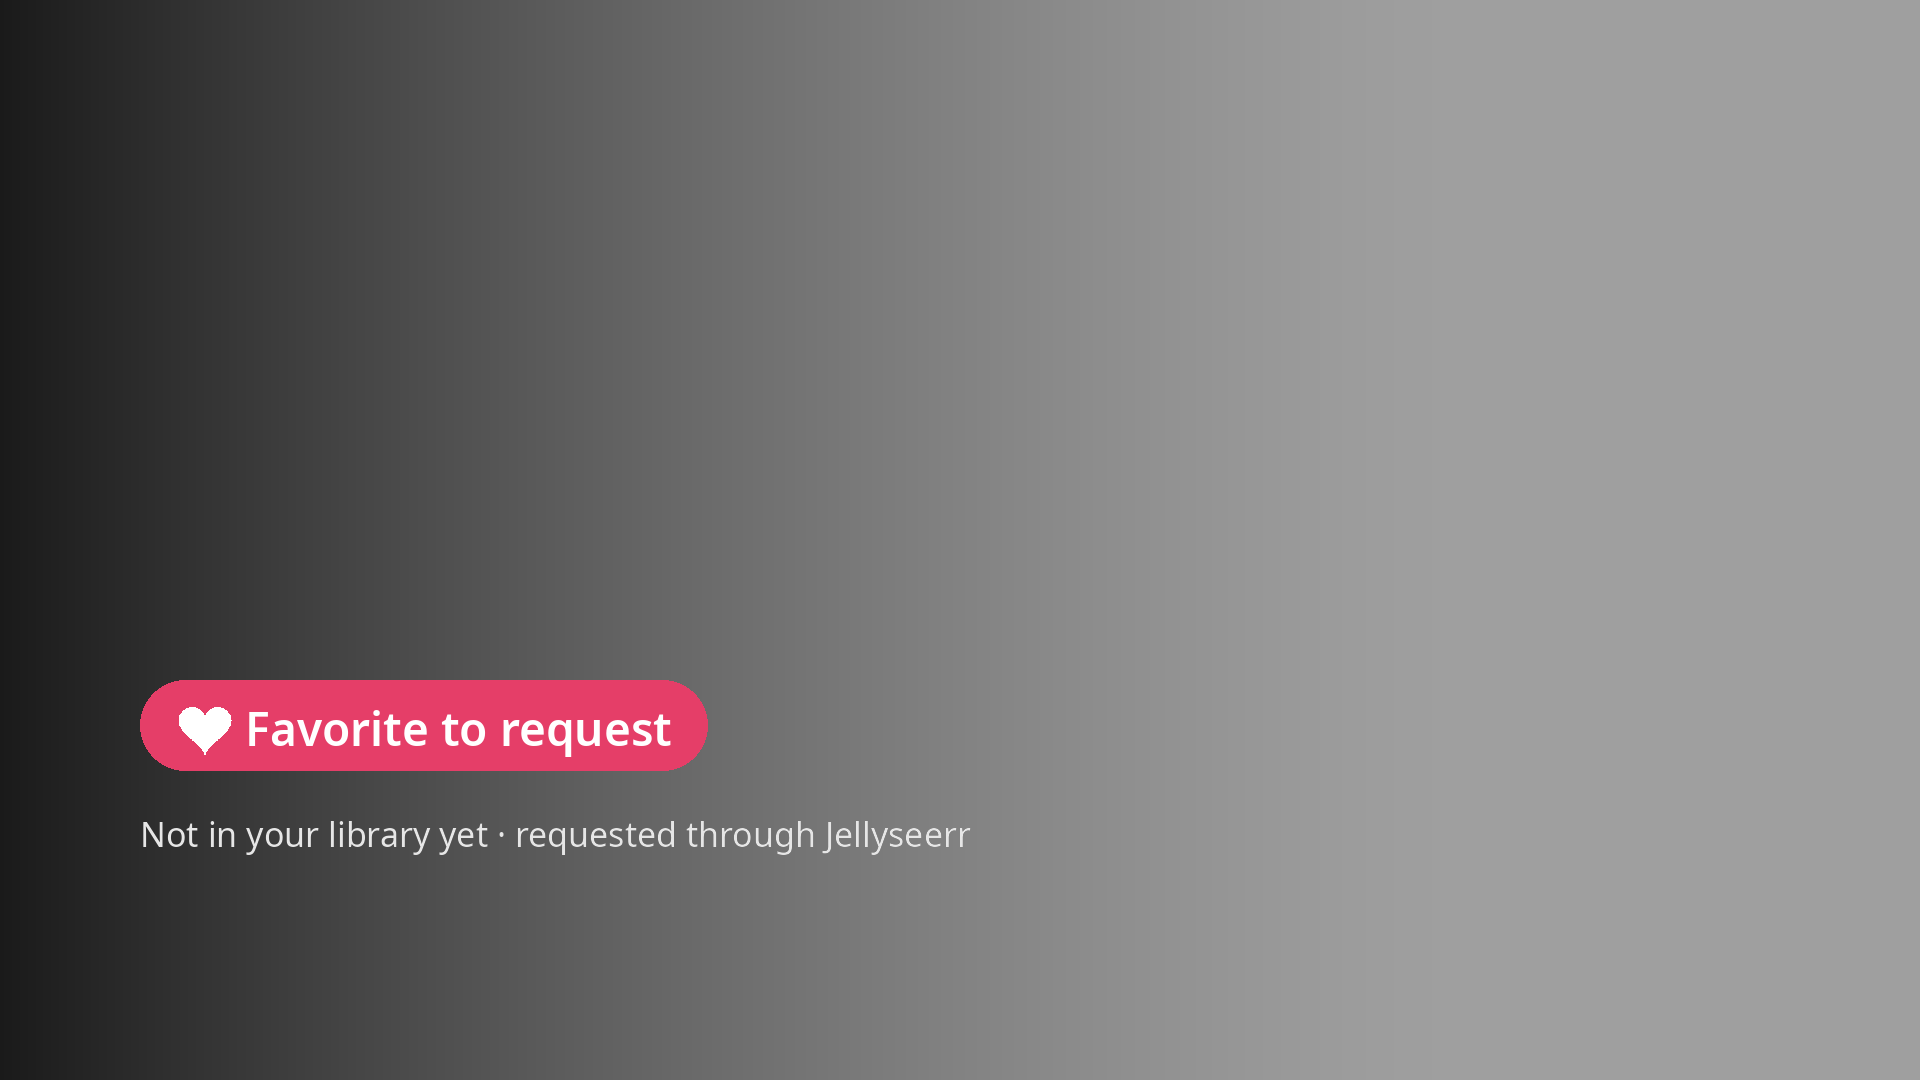
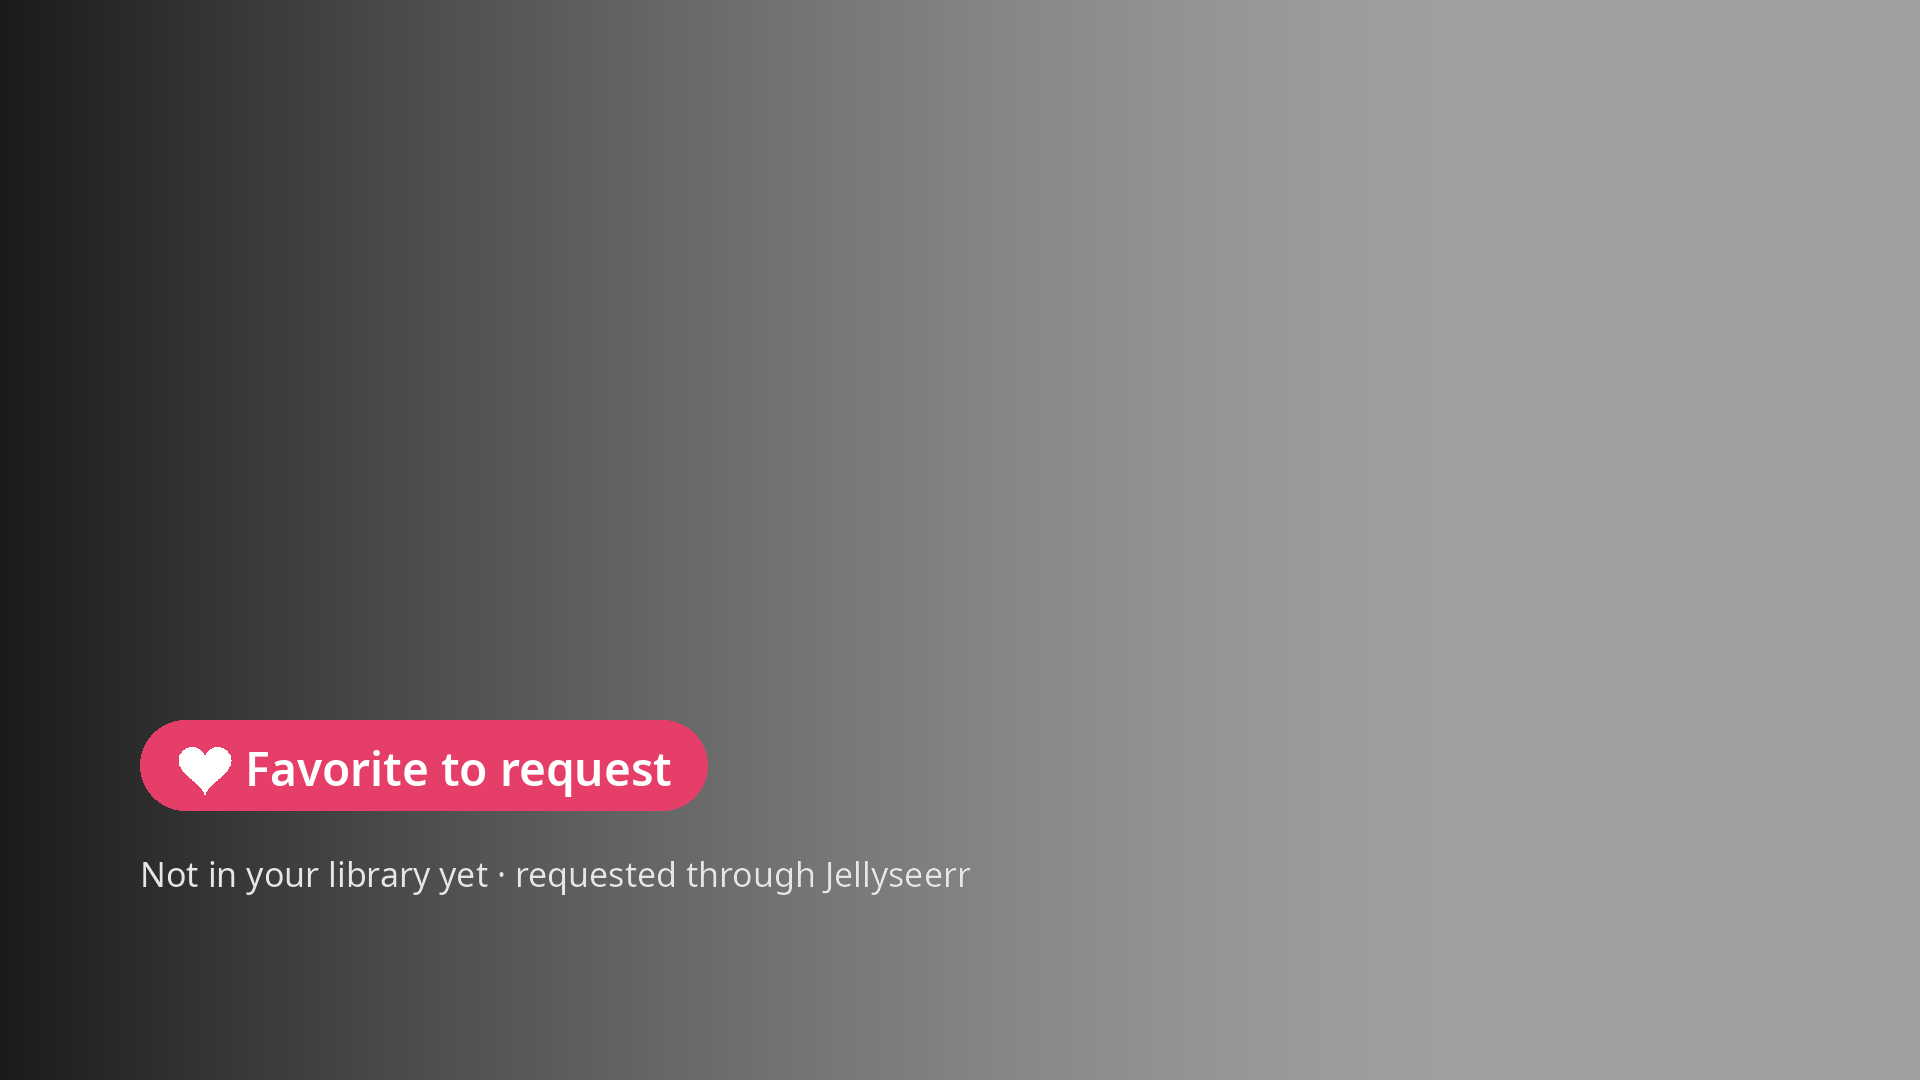
feat: title promos show the whole plot for most titles
The plot was cut to 3 lines of 34 px, which showed about a third of plots in full.
It is now 30 px, up to 6 lines in a 1200 px column, wrapped by the promo font's
character widths instead of a character count. A longer plot ends after its last
whole sentence that fits. Across 407 real overviews: 96% shown in full, the rest
end at a sentence.

The info line stays at 34 px, 30 px above the plot. The "favorite to request" note
in the overlay moves 40 px down, leaving 70 px under the plot. The logo shrinks
when a long plot leaves it less than its usual height. Layout token layout10, so
existing promos are redrawn once.

Changed region(s): [[0.0625, 0.6111, 0.5, 0.825]]

diff --git a/src/Jellyfin.Plugin.JellyBridge/Services/PlaceholderVideoGenerator.cs b/src/Jellyfin.Plugin.JellyBridge/Services/PlaceholderVideoGenerator.cs
@@ -46,23 +46,26 @@ public class PlaceholderVideoGenerator
     private static readonly string TitlePromoFontAsset = "promo-font.ttf";
 
     // Layout of the 1920x1080 frame, top to bottom like a streaming service's title page: logo, info line, plot, then the
-    // overlay's "favorite to request" note, which starts at y 680. The text block is stacked upwards from just above the
-    // note and the logo moves up to make room; with no text the logo keeps its old place (bottom at y 630).
-    // drawtext puts the top of the text at y; a line of the promo font (Noto Sans, like the overlay) takes about 1.3 x the font size plus the line spacing.
+    // overlay's "favorite to request" note, which starts at y 720. The text block is stacked upwards from 70 px above the
+    // note and the logo moves up to make room (shrinking when a long plot leaves it less than its usual height); with no
+    // text the logo keeps its old place (bottom at y 630).
+    // drawtext puts the top of the text at y; line advances and heights below are measured from Jellyfin's ffmpeg.
     private const int PromoTextLeft = 140;
-    private const int PromoTextWidth = 1060;
+    private const int PromoTextWidth = 1200;
     private const int PromoTextBottom = 650;
     private const int PromoLogoBottom = 630;
     private const int PromoLogoGap = 30;
+    private const int PromoLogoMaxHeight = 300;
+    private const int PromoLogoTop = 80;
     private const int PromoInfoFontSize = 34;
     private const int PromoInfoHeight = 33;
-    private const int PromoInfoGap = 22;
+    private const int PromoInfoGap = 30;
     private const int PromoInfoMaxChars = 58;
-    private const int PromoPlotFontSize = 34;
-    private const int PromoPlotMaxLines = 3;
+    private const int PromoPlotFontSize = 30;
+    private const int PromoPlotMaxLines = 6;
     private const int PromoPlotSpacing = 10;
-    private const int PromoPlotLineAdvance = 56;
-    private const int PromoPlotLastLineHeight = 33;
+    private const int PromoPlotLineAdvance = 51;
+    private const int PromoPlotLastLineHeight = 29;
     private const int PromoBadgeY = 88;
     private const int PromoBadgeRight = 140;
     private const int PromoBadgeFontSize = 36;
@@ -1015,7 +1018,7 @@ public class PlaceholderVideoGenerator
         if (logo != null)
         {
             arguments.AddRange(new[] { "-i", logo });
-            filter += $";[2:v]scale=760:300:force_original_aspect_ratio=decrease[logo];[{stage}][logo]overlay=x=140:y={layout.LogoBottom}-overlay_h[jb{nextStage}]";
+            filter += $";[2:v]scale=760:{layout.LogoMaxHeight}:force_original_aspect_ratio=decrease[logo];[{stage}][logo]overlay=x=140:y={layout.LogoBottom}-overlay_h[jb{nextStage}]";
             (stage, nextStage) = ($"jb{nextStage}", nextStage + 1);
         }
         foreach (var textFilter in layout.Filters)
@@ -1083,7 +1086,7 @@ public class PlaceholderVideoGenerator
     /// <summary>
     /// The text filters for one promo and where the logo goes above them.
     /// </summary>
-    private sealed record PromoLayout(IReadOnlyList<string> Filters, int LogoBottom)
+    private sealed record PromoLayout(IReadOnlyList<string> Filters, int LogoBottom, int LogoMaxHeight = PromoLogoMaxHeight)
     {
         public static readonly PromoLayout Plain = new(Array.Empty<string>(), PromoLogoBottom);
     }
@@ -1228,22 +1231,47 @@ public class PlaceholderVideoGenerator
         return line.Length > 0 ? line : null;
     }
 
-    /// <summary>
-    /// Wraps the plot into the few lines a promo can carry, ending it with an ellipsis rather than a ragged word.
-    /// Wraps by character count, which is close enough at the size and width used here.
-    /// </summary>
-    private static string? WrapPromoPlot(string? overview)
+    // Advance widths of the promo font's printable ASCII characters (U+0020 to U+007E) in 1/1000 em, so the plot wraps to
+    // the width it is drawn at. Other characters count as PromoWideChar, so a line can come out short but never too long.
+    private static readonly short[] PromoAsciiWidths =
     {
-        if (string.IsNullOrWhiteSpace(overview))
+        260, 269, 408, 646, 572, 831, 732, 225, 300, 300, 551, 572, 268, 322, 268, 372, 572, 572, 572, 572, 572, 572, 572, 572,
+        572, 572, 268, 268, 572, 572, 572, 434, 899, 639, 650, 632, 730, 556, 519, 728, 741, 339, 273, 619, 524, 907, 760, 781,
+        605, 781, 622, 549, 556, 731, 600, 930, 586, 566, 572, 329, 372, 329, 572, 444, 281, 561, 615, 480, 615, 564, 344, 615,
+        618, 258, 258, 534, 258, 935, 618, 605, 615, 615, 413, 479, 361, 618, 508, 786, 529, 510, 470, 380, 551, 380, 572
+    };
+    private const int PromoWideChar = 700;
+
+    // A sentence ends at . ! ? or an ellipsis followed by a capital or an opening quote, but not after a short title or
+    // abbreviation such as "Dr." or "St."
+    private static readonly Regex PromoSentenceEnd = new(@"(?<=(?<!\b(?:Mr|Mrs|Ms|Dr|St|Jr|Sr|Mt|vs))[.!?\u2026])\s+(?=[\p{Lu}""'\u201C\u2018])", RegexOptions.Compiled);
+
+    private static double PromoTextWidthOf(string text, int fontSize)
+    {
+        var units = 0;
+        foreach (var ch in text)
         {
-            return null;
+            units += ch switch
+            {
+                >= ' ' and <= '~' => PromoAsciiWidths[ch - ' '],
+                '\u2018' or '\u2019' => 175,
+                '\u201C' or '\u201D' => 359,
+                '\u2013' => 500,
+                '\u2014' => 1000,
+                '\u2026' => 791,
+                _ => PromoWideChar
+            };
         }
-        var maxChars = Math.Max(20, (int)(PromoTextWidth / (PromoPlotFontSize * 0.52)));
+        return units * fontSize / 1000.0;
+    }
+
+    private static List<string> WrapPromoLines(IEnumerable<string> words)
+    {
         var lines = new List<string>();
         var line = new StringBuilder();
-        foreach (var word in overview.Split((char[]?)null, StringSplitOptions.RemoveEmptyEntries))
+        foreach (var word in words)
         {
-            if (line.Length > 0 && line.Length + 1 + word.Length > maxChars)
+            if (line.Length > 0 && PromoTextWidthOf(line + " " + word, PromoPlotFontSize) > PromoTextWidth)
             {
                 lines.Add(line.ToString());
                 line.Clear();
@@ -1258,18 +1286,41 @@ public class PlaceholderVideoGenerator
         {
             lines.Add(line.ToString());
         }
+        return lines;
+    }
 
-        var cut = lines.Count > PromoPlotMaxLines;
-        if (cut)
+    /// <summary>
+    /// Wraps the plot into the lines a promo can carry. A longer plot ends after its last whole sentence that fits, or with
+    /// an ellipsis when even its first sentence is too long.
+    /// </summary>
+    private static string? WrapPromoPlot(string? overview)
+    {
+        if (string.IsNullOrWhiteSpace(overview))
         {
-            lines = lines.GetRange(0, PromoPlotMaxLines);
+            return null;
         }
-        var plot = string.Join("\n", lines);
-        if (cut)
+        var text = string.Join(' ', overview.Split((char[]?)null, StringSplitOptions.RemoveEmptyEntries));
+        var lines = WrapPromoLines(text.Split(' '));
+        if (lines.Count <= PromoPlotMaxLines)
         {
-            plot = plot.TrimEnd('.', ',', ':', ';') + "\u2026";
+            return string.Join("\n", lines);
         }
-        return plot.Length > 0 ? plot : null;
+
+        List<string>? fitting = null;
+        var kept = new StringBuilder();
+        foreach (var sentence in PromoSentenceEnd.Split(text))
+        {
+            kept.Append(kept.Length > 0 ? " " : string.Empty).Append(sentence);
+            var candidate = WrapPromoLines(kept.ToString().Split(' '));
+            if (candidate.Count > PromoPlotMaxLines)
+            {
+                break;
+            }
+            fitting = candidate;
+        }
+        return fitting != null
+            ? string.Join("\n", fitting)
+            : string.Join("\n", lines.GetRange(0, PromoPlotMaxLines)).TrimEnd('.', ',', ':', ';') + "\u2026";
     }
 
     /// <summary>
@@ -1307,7 +1358,7 @@ public class PlaceholderVideoGenerator
             return "none";
         }
         // The layout is part of what is drawn, so a change to it re-renders every title once
-        var joined = string.Join("\n", "layout9", text.Info ?? "", text.Plot ?? "", text.Badge ?? "");
+        var joined = string.Join("\n", "layout10", text.Info ?? "", text.Plot ?? "", text.Badge ?? "");
         return Convert.ToHexString(SHA256.HashData(Encoding.UTF8.GetBytes(joined)))[..12].ToLowerInvariant();
     }
 
@@ -1349,7 +1400,8 @@ public class PlaceholderVideoGenerator
             filters.Add(DrawTextFilter(WritePromoTextFile(key, "badge", text.Badge), font, PromoBadgeY, PromoBadgeFontSize,
                 $"w-tw-{PromoBadgeRight}", boxed: true));
         }
-        return new PromoLayout(filters, top < PromoTextBottom ? top - PromoLogoGap : PromoLogoBottom);
+        var logoBottom = top < PromoTextBottom ? top - PromoLogoGap : PromoLogoBottom;
+        return new PromoLayout(filters, logoBottom, Math.Min(PromoLogoMaxHeight, logoBottom - PromoLogoTop));
     }
 
     private static string DrawTextFilter(string textFile, string font, int y, int fontSize, string x, int lineSpacing = 0, bool boxed = false)
